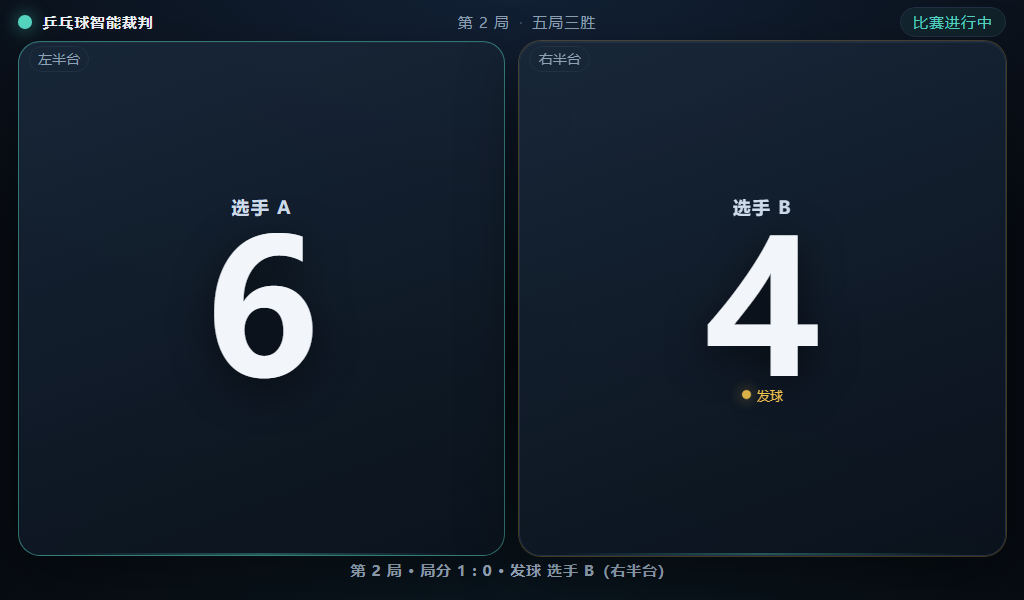
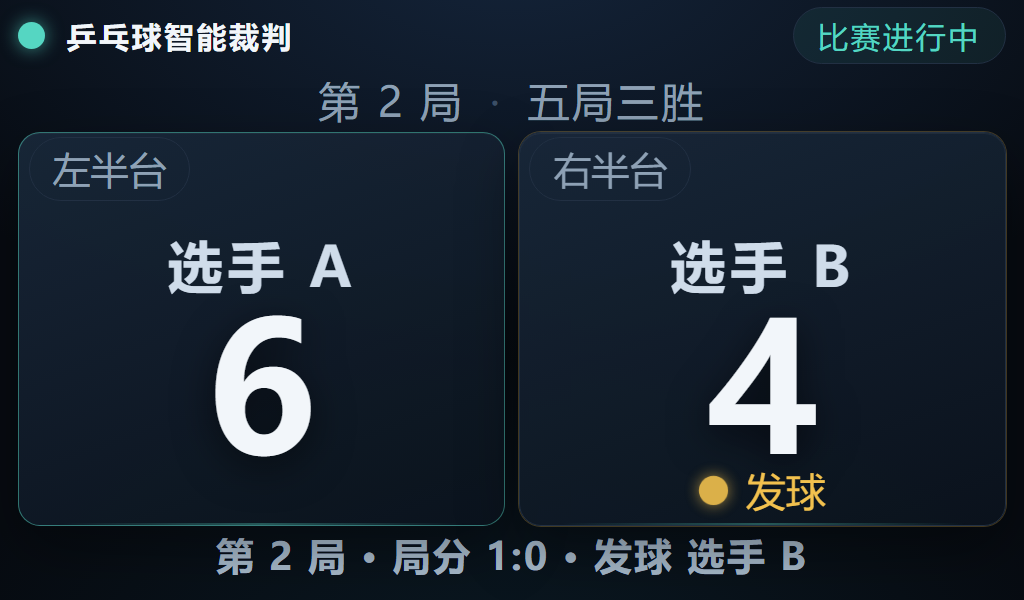
Refine scoreboard typography and layout

diff --git a/tt_referee/ui/static/style.css b/tt_referee/ui/static/style.css
@@ -287,38 +287,61 @@ body.compact .recent,
 body.compact .demo { display: none !important; }
 
 /* ---------------------------------------------------------------- 自适应覆盖 */
-.topbar { font-size: clamp(15px, 2.2vmin, 24px); }
-.name { font-size: clamp(20px, 3vmin, 34px); font-weight: 600; }
+.topbar { font-size: clamp(42px, 5.4vmin, 58px); }
+.brand, .status { font-size: clamp(30px, 3.8vmin, 44px); }
+.name { font-size: clamp(58px, 6.8vmin, 82px); font-weight: 600; }
 .points { font-size: clamp(90px, 30vmin, 280px); font-weight: 800; }
-.serve { font-size: clamp(15px, 2.2vmin, 24px); }
+.serve { font-size: clamp(42px, 5.4vmin, 58px); }
 .colon { font-size: clamp(48px, 12vmin, 140px); }
-.sets { font-size: clamp(18px, 3.4vmin, 32px); }
-.side-tag { font-size: clamp(14px, 2vmin, 22px); }
-.meta-strip { font-size: clamp(15px, 2.5vmin, 24px); font-weight: 600; }
-.chip { font-size: clamp(14px, 2.2vmin, 22px); }
-.pending { font-size: clamp(16px, 2.5vmin, 24px); }
-.recent { font-size: clamp(14px, 1.9vmin, 20px); }
-.demo button { padding: .55em 1em; font-size: clamp(13px, 1.8vmin, 18px); }
+.sets-caption { font-size: clamp(32px, 4.2vmin, 44px); }
+.sets { font-size: clamp(38px, 5.2vmin, 52px); }
+.side-tag { font-size: clamp(38px, 4.8vmin, 52px); }
+.meta-strip { font-size: clamp(38px, 5vmin, 54px); font-weight: 700; }
+.chip { font-size: clamp(34px, 4.4vmin, 46px); }
+.pending { font-size: clamp(36px, 4.8vmin, 50px); }
+.recent { font-size: clamp(28px, 3.4vmin, 38px); }
+.demo button { padding: .65em 1.1em; font-size: clamp(28px, 3.4vmin, 38px); }
 
 @media (max-height: 700px) {
-  .points { font-size: clamp(90px, 31vmin, 200px); }
-  .name { font-size: clamp(18px, 2.9vmin, 28px); }
+  .topbar {
+    display: grid;
+    grid-template-columns: auto auto;
+    grid-template-areas: "brand status" "meta meta";
+    align-items: center;
+    gap: .2em .5em;
+  }
+  .brand { grid-area: brand; }
+  .match-meta { grid-area: meta; justify-self: center; }
+  .status { grid-area: status; justify-self: end; }
+  .points { font-size: clamp(90px, 30vmin, 190px); }
+  .name { font-size: clamp(56px, 7.2vmin, 72px); margin-top: 14.5vh; }
   .colon { font-size: clamp(40px, 10vmin, 100px); }
-  .sets { font-size: clamp(16px, 3.2vmin, 24px); }
-  .serve { font-size: clamp(13px, 2.1vmin, 20px); }
-  .chip { font-size: clamp(13px, 2vmin, 19px); }
-  .pending { font-size: clamp(14px, 2.3vmin, 20px); }
+  .sets { font-size: clamp(36px, 5.5vmin, 48px); }
+  .serve { font-size: clamp(40px, 5.4vmin, 54px); }
+  .chip { font-size: clamp(32px, 4.2vmin, 40px); }
+  .pending { font-size: clamp(36px, 4.8vmin, 46px); }
 }
 
 @media (max-height: 520px) {
-  .points { font-size: clamp(90px, 33vmin, 160px); }
-  .name { font-size: clamp(16px, 3.2vmin, 20px); }
+  .points { font-size: clamp(90px, 27.5vmin, 132px); }
+  .name { font-size: clamp(52px, 7vmin, 60px); }
   .colon { font-size: clamp(28px, 7vmin, 56px); }
-  .sets { font-size: 14px; }
-  .serve { font-size: 14px; }
-  .side-tag { font-size: 13px; }
-  .meta-strip { font-size: 14px; }
-  .chip { font-size: 13px; }
+  .topbar {
+    display: grid;
+    grid-template-columns: auto auto;
+    grid-template-areas: "brand status" "meta meta";
+    align-items: center;
+    gap: .25em .5em;
+    font-size: 36px;
+  }
+  .brand { grid-area: brand; font-size: 30px; }
+  .match-meta { grid-area: meta; justify-self: center; font-size: 36px; }
+  .status { grid-area: status; justify-self: end; font-size: 28px; }
+  .sets { font-size: 36px; }
+  .serve { font-size: 40px; }
+  .side-tag { font-size: 40px; }
+  .meta-strip { font-size: 38px; }
+  .chip { font-size: 32px; }
   .demo { display: none; }
 }
 
@@ -340,19 +363,22 @@ body.compact .demo { display: none !important; }
     padding: 0 6vw;
   }
   .player .name {
-    grid-column: 1; grid-row: 1; align-self: start; margin: 5.5vh 0 0;
-    font-size: clamp(24px, 5.2vmin, 34px);
+    grid-column: 1; grid-row: 1; align-self: start; margin: 8vh 0 0;
+    font-size: clamp(40px, 8vmin, 52px);
   }
   .player .serve {
     grid-column: 1; grid-row: 2; justify-self: start; align-self: end;
-    margin: 0 0 1.6vh; font-size: clamp(16px, 3vmin, 24px);
+    margin: 0 0 1.6vh; font-size: clamp(30px, 5.4vmin, 40px);
   }
   .player .points { grid-column: 2; grid-row: 1 / span 2; font-size: clamp(100px, 34vmin, 240px); }
   .player .side-tag { top: 1.4vh; left: 4vw; }
   .center { flex-direction: row; gap: 1.6vw; min-width: 0; }
   .center .colon { font-size: clamp(26px, 7vmin, 70px); }
   .center .sets-caption { display: none; }
-  .center .sets { font-size: clamp(18px, 3.8vmin, 32px); }
+  .center .sets { font-size: clamp(34px, 6vmin, 46px); }
+  .player .side-tag { font-size: 26px; }
+  .topbar { font-size: 17px; gap: .35em; grid-template-areas: none; grid-template-columns: 1fr; display: flex; }
+  .brand, .status { font-size: 17px; }
   .recent, .demo { display: none; }
   .flags { justify-content: flex-start; overflow-x: auto; }
 }

diff --git a/tt_referee/ui/static/app.js b/tt_referee/ui/static/app.js
@@ -80,11 +80,8 @@ function render(data) {
 
   const meta = $("meta-strip");
   if (meta) {
-    const serverSide = data.server === "A"
-      ? (data.side_of_a === "left" ? "左半台" : "右半台")
-      : (data.side_of_a === "left" ? "右半台" : "左半台");
-    meta.textContent = `第 ${data.set_index + 1} 局 · 局分 ${data.sets.A} : ${data.sets.B}` +
-      ` · 发球 ${data.players[data.server]}（${serverSide}）`;
+    meta.textContent = `第 ${data.set_index + 1} 局 · 局分 ${data.sets.A}:${data.sets.B}` +
+      ` · 发球 ${data.players[data.server]}`;
   }
 
   const flags = $("flags");
